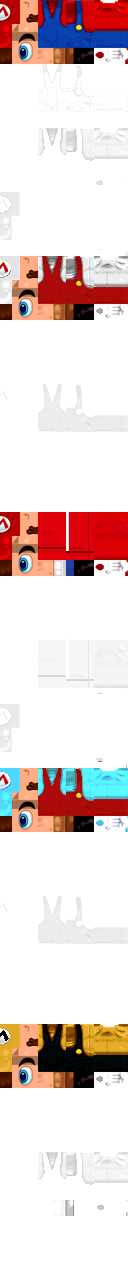
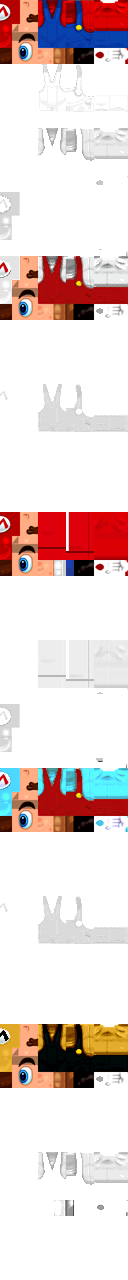
Minor fixes
Fixed facing angle.
Made the palette textures more saturated.

diff --git a/Assets/Scripts/Entity/Player/MarioPlayerAnimator.cs b/Assets/Scripts/Entity/Player/MarioPlayerAnimator.cs
@@ -360,12 +360,12 @@ namespace NSMB.Entities.Player {
                 if (mario->IsInKnockback && (physicsObject->IsUnderwater || mario->IsInWeakKnockback)) {
                     right = mario->KnockbackWasOriginallyFacingRight;
                 }
-                modelRotationTarget = Quaternion.Euler(0, right ? 110 : 250, 0);
+                modelRotationTarget = Quaternion.Euler(0, right ? 108 : 252, 0);
                 modelRotateInstantly = true;
 
             } else if (mario->IsDead) {
                 if (mario->FireDeath && mario->DeathAnimationFrames == 0) {
-                    modelRotationTarget = Quaternion.Euler(0, mario->FacingRight ? 110 : 250, 0);
+                    modelRotationTarget = Quaternion.Euler(0, mario->FacingRight ? 108 : 252, 0);
                 } else {
                     modelRotationTarget = Quaternion.Euler(0, 180, 0);
                 }
@@ -379,7 +379,7 @@ namespace NSMB.Entities.Player {
 
             } else if (wasTurnaround || mario->IsSkidding || mario->IsTurnaround || animator.GetCurrentAnimatorStateInfo(0).IsName("turnaround")) {
                 bool flip = mario->FacingRight ^ (animator.GetCurrentAnimatorStateInfo(0).IsName("turnaround") || mario->IsSkidding);
-                modelRotationTarget = Quaternion.Euler(0, flip ? 250 : 110, 0);
+                modelRotationTarget = Quaternion.Euler(0, flip ? 252 : 108, 0);
                 modelRotateInstantly = true;
 
             } else if (f.Unsafe.TryGetPointer(mario->CurrentSpinner, out Spinner* spinner)
@@ -395,9 +395,9 @@ namespace NSMB.Entities.Player {
                 modelRotateInstantly = true;
 
             } else if (mario->IsWallsliding) {
-                modelRotationTarget = Quaternion.Euler(0, mario->WallslideRight ? 110 : 250, 0);
+                modelRotationTarget = Quaternion.Euler(0, mario->WallslideRight ? 108 : 252, 0);
             } else {
-                modelRotationTarget = Quaternion.Euler(0, mario->FacingRight ? 110 : 250, 0);
+                modelRotationTarget = Quaternion.Euler(0, mario->FacingRight ? 108 : 252, 0);
             }
 
             propellerVelocity = Mathf.Clamp(propellerVelocity + (1200 * ((mario->IsSpinnerFlying || mario->IsPropellerFlying || mario->UsedPropellerThisJump) ? -1 : 1) * delta), -2500, -300);
